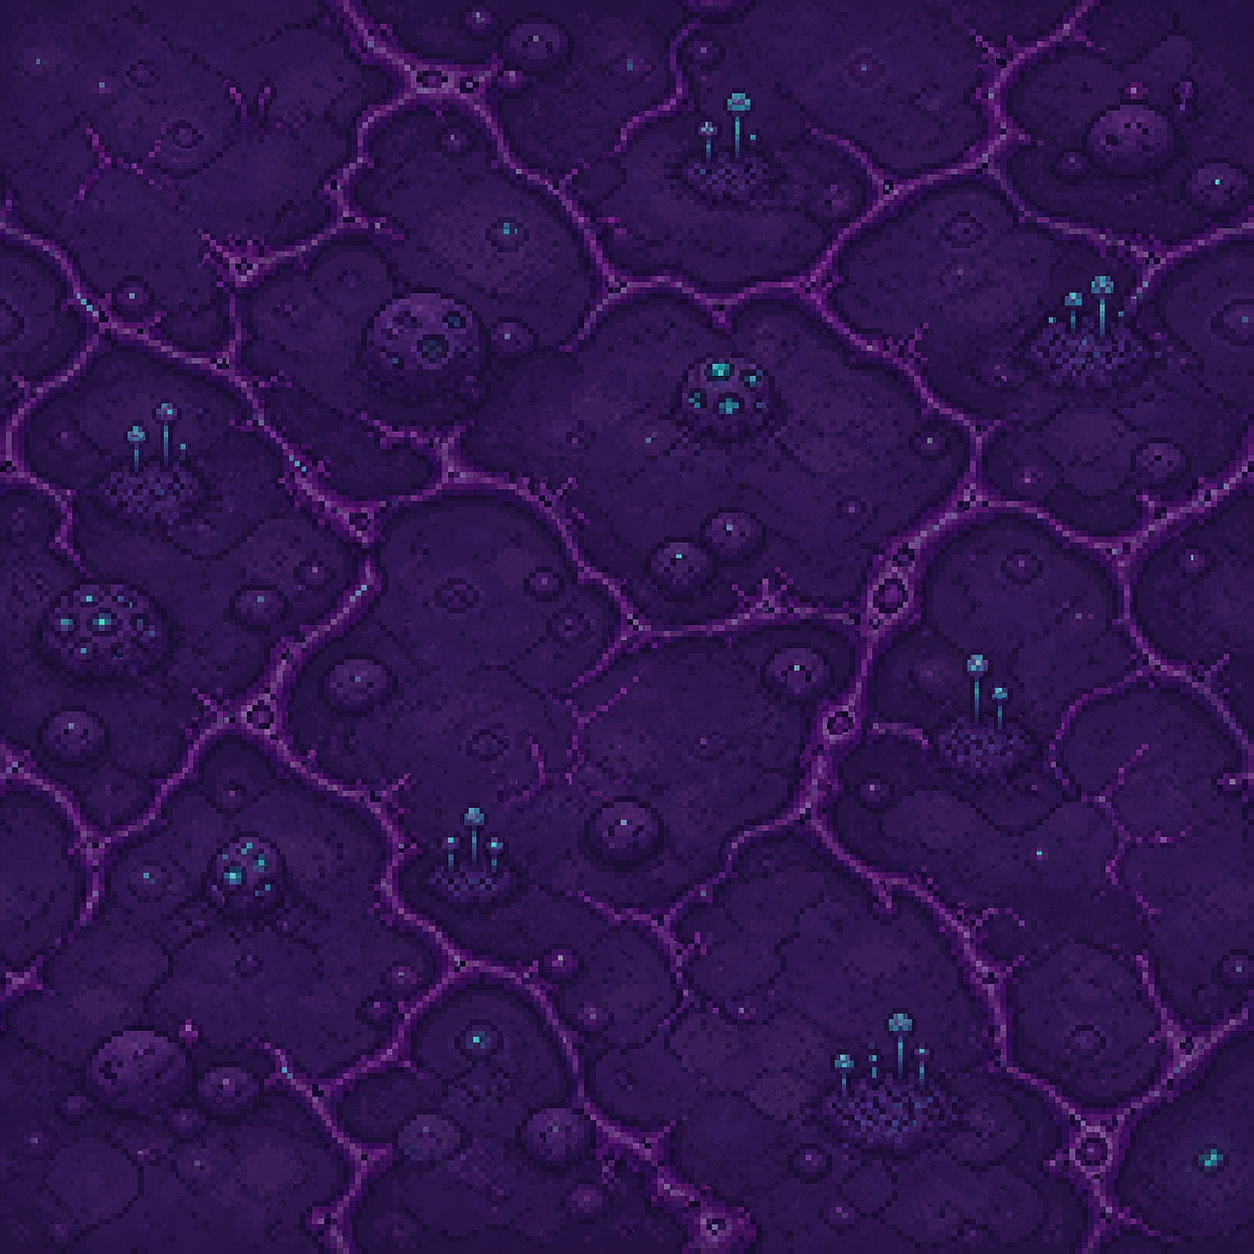
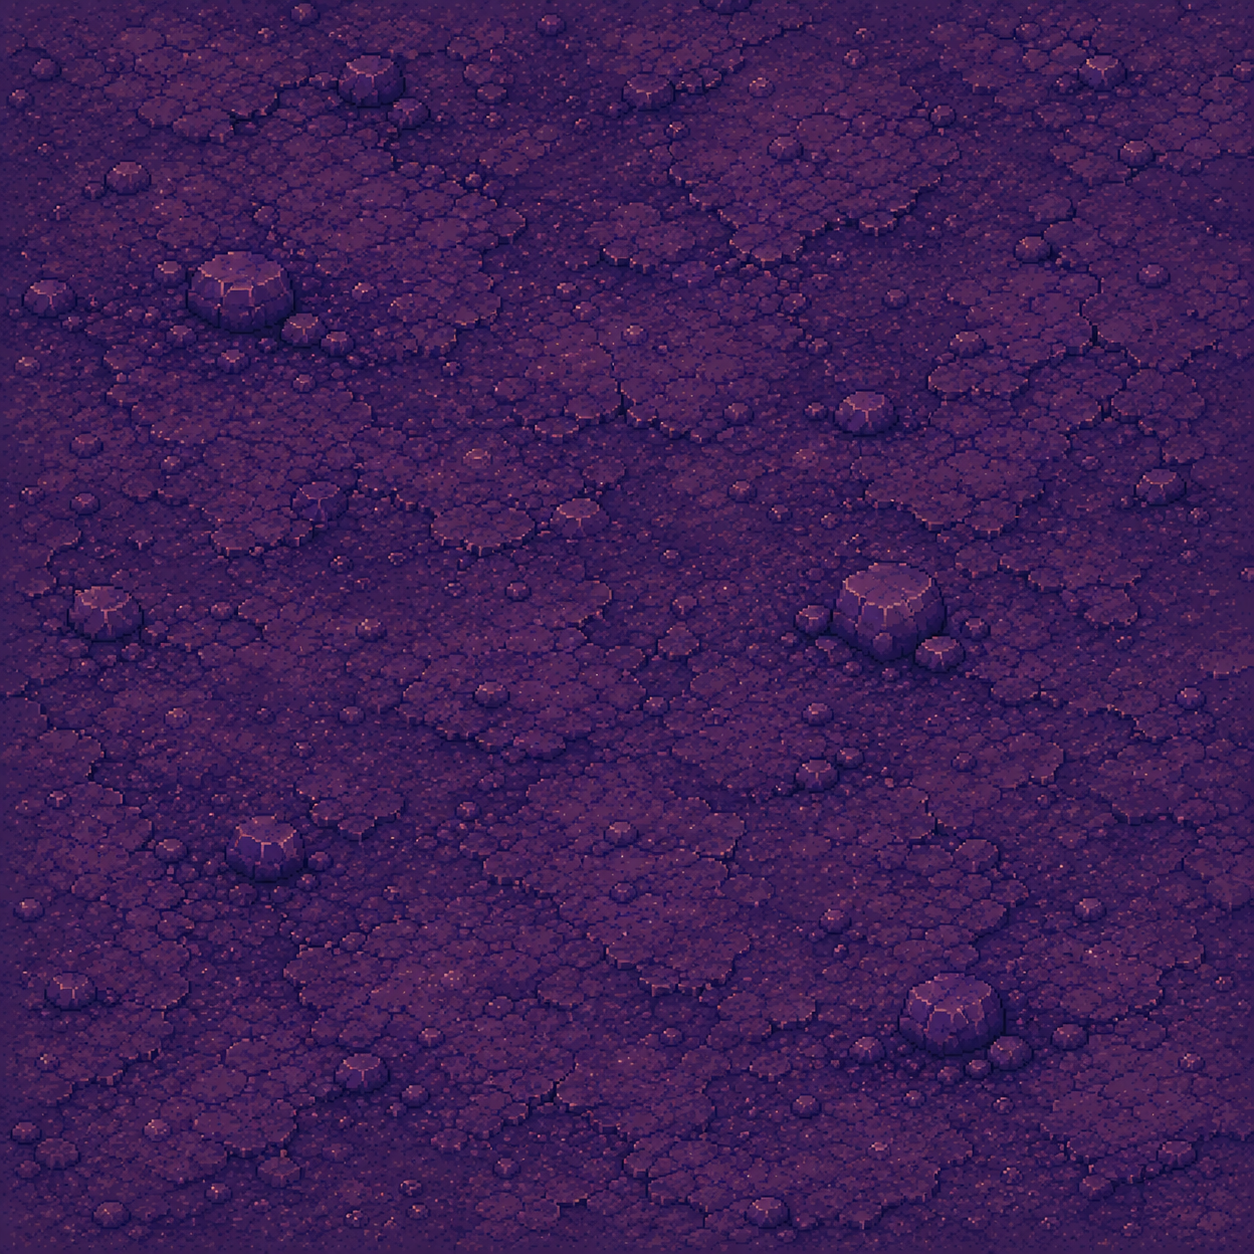
feat(ground): add alien terrain textures and improve tile rendering

diff --git a/src/components/Canvas/Canvas.tsx b/src/components/Canvas/Canvas.tsx
@@ -111,21 +111,23 @@ export default function Canvas({
     ctx.translate(viewport.offsetX, viewport.offsetY);
     ctx.scale(viewport.scale, viewport.scale);
 
-    console.log({
-  canvasWidth: canvas.width,
-  canvasHeight: canvas.height,
-  viewport,
-});
+//     console.log({
+//   canvasWidth: canvas.width,
+//   canvasHeight: canvas.height,
+//   viewport,
+// });
 
 
-const rect = canvas.getBoundingClientRect();
+// const rect = canvas.getBoundingClientRect();
 
-console.log( {
-  internalWidth: canvas.width,
-  internalHeight: canvas.height,
-  cssWidth: rect.width,
-  cssHeight: rect.height,
-});
+// console.log( {
+//   internalWidth: canvas.width,
+//   internalHeight: canvas.height,
+//   cssWidth: rect.width,
+//   cssHeight: rect.height,
+// });
+
+console.log("ref tiles : ", tilesRef.current)
     const render = () => {
       ctx.save();
       ctx.clearRect(0, 0, canvas.width, canvas.height);
@@ -174,6 +176,13 @@ console.log( {
 
       if (!selectedTileId) return;
 
+            setTiles((currentTiles) =>
+        currentTiles.map((tile) => ({
+          ...tile,
+          selected: tile.id === selectedTileId,
+        })),
+      );
+
       const selectedTile: Tile | undefined = tilesRef.current.find(
         (tile) => tile.id === selectedTileId,
       );
@@ -205,7 +214,7 @@ console.log( {
       const plant = findPlantOnTile(selectedTileId, plants);
 
       if (!plant) return;
-      console.log(getAdjacentPlants(plant, plants, tiles));
+      // console.log(getAdjacentPlants(plant, plants, tiles));
     };
 
     const handleMouseMove = (event: MouseEvent) => {

diff --git a/src/rendering/tiles/drawAllTiles.ts b/src/rendering/tiles/drawAllTiles.ts
@@ -10,34 +10,29 @@ export default function drawAllTiles(
 ) {
   return tilePositions.forEach((tile) => {
     drawTexturedTile(ctx, tile, assets)
-    drawGroundOverlay(ctx, tile, assets)
+    // drawGroundOverlay(ctx, tile, assets)
   }
 );
 }
-
 
 export const drawTileState = (
   ctx: CanvasRenderingContext2D,
   tiles: Tile[],
 ): void => {
+  tiles.forEach((tile) => {
+    if (!tile.hovered && !tile.selected) return;
 
-  tiles.forEach(tile => {
-      if (!tile.hovered && !tile.selected) return;
-      console.log("tile status : selected")
-        ctx.save();
+    ctx.save();
 
-  if (tile.selected) {
-    ctx.strokeStyle = "#c86bff";
-    ctx.lineWidth = 2;
-  } else {
-    ctx.strokeStyle = "#68e4ff";
-    ctx.lineWidth = 0.5;
-  }
+    if (tile.selected) {
+      ctx.strokeStyle = "#c86bff";
+      ctx.lineWidth = 2;
+    } else {
+      ctx.strokeStyle = "#68e4ff";
+      ctx.lineWidth = 0.5;
+    }
 
-  ctx.stroke(tile.path);
-
-  ctx.restore();
+    ctx.stroke(tile.path);
+    ctx.restore();
   });
-
-
 };

diff --git a/src/App.tsx b/src/App.tsx
@@ -80,9 +80,10 @@ function App() {
     setSelectedSpecie(clickedSpecie);
   };
 
-  const handleTileSelection = (tile: Tile) => {
-    setSelectedTile(tile);
-  };
+ const handleTileSelection = (tile: Tile) => {
+  setSelectedTile(tile);
+};
+  console.log("selectedTile : ", selectedTile)
 
 
 

diff --git a/src/rendering/tiles/drawTexturedTile.ts b/src/rendering/tiles/drawTexturedTile.ts
@@ -16,13 +16,12 @@ export const drawTexturedTile = (
 
   const texture = groundTextures[tile.groundVariant]
 
-  
   ctx.save();
 
   ctx.beginPath();
 
   ctx.imageSmoothingEnabled = true;
-
+ctx.fillStyle = "#58365f";
   ctx.fill(tile.path);
 
   ctx.moveTo(tile.x, tile.y - HALF_TILE_HEIGHT);

diff --git a/src/rendering/tiles/drawTile.ts b/src/rendering/tiles/drawTile.ts
@@ -34,7 +34,7 @@ export const drawTile = (
   const pattern = ctx.createPattern(assets.alienGround, "")
 
   if(!pattern) return 
-    // ctx.fillStyle = tileColors.fill;
+    ctx.fillStyle = tileColors.fill;
 
   ctx.fillStyle = pattern;
 

diff --git a/src/game/grid/createTilePath.ts b/src/game/grid/createTilePath.ts
@@ -13,7 +13,7 @@ export function createTilePath(
 
   path.closePath();
 
-  console.log("path : ", path);
+  // console.log("path : ", path);
 
   return path;
 }
